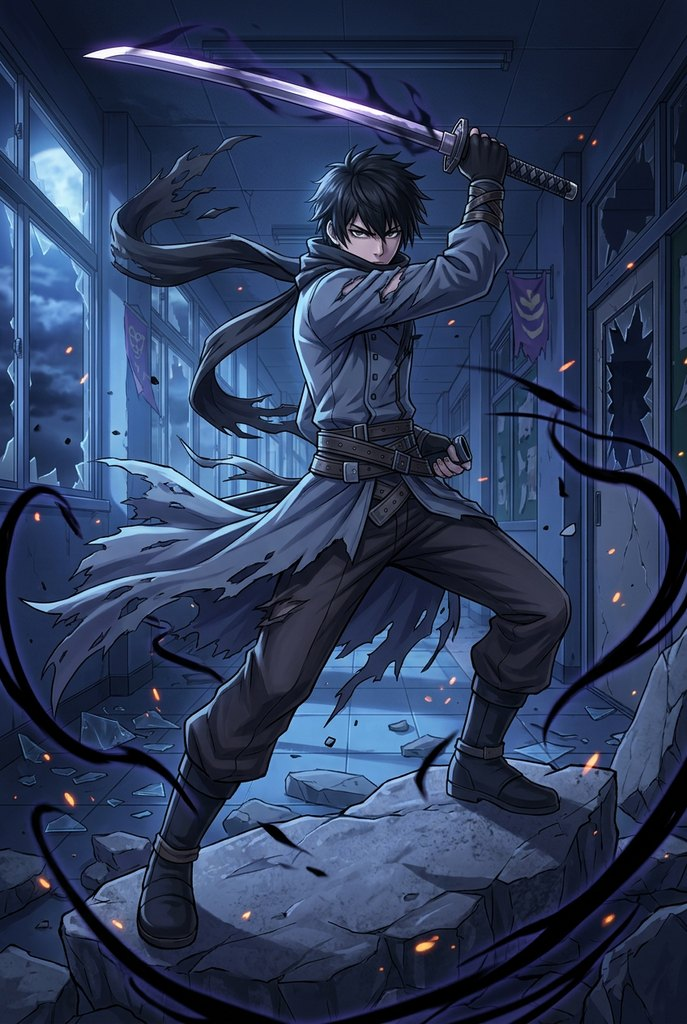
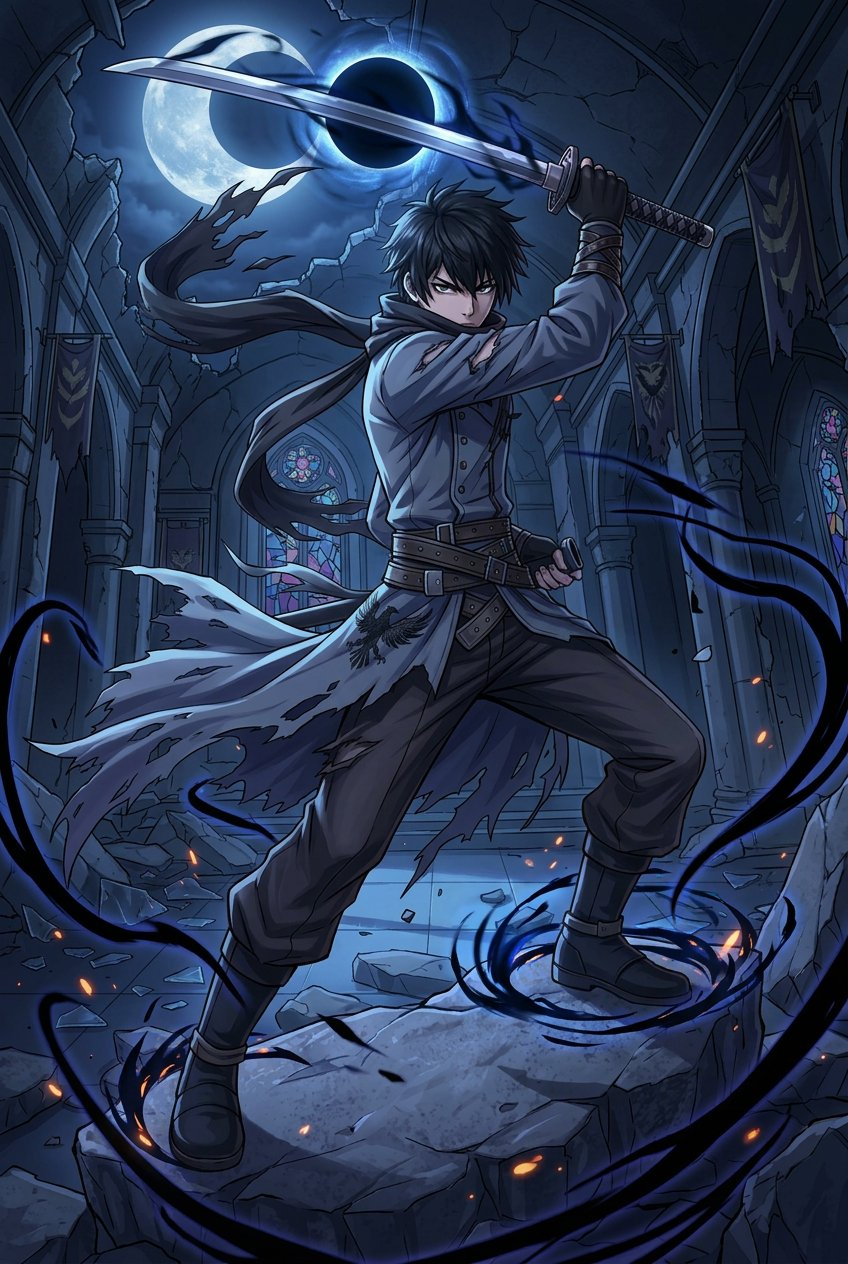
Expand home companion artwork and refresh SSR illustrations

diff --git a/src/app/globals.css b/src/app/globals.css
@@ -263,3 +263,42 @@ img.chibi{object-fit:contain;object-position:50% 100%;image-rendering:pixelated;
 .story-choices>button.picked>.choice-arrow{opacity:0}
 .story-choices>button:disabled:not(.picked){opacity:.42}
 
+
+/* Full-bleed companion stage. Keep this after compact viewport overrides:
+   key art is scenery, not a small sprite above the dialogue box. */
+.home-scene .companion-figure{
+  inset:0 auto 0 0;
+  width:60%;height:100%;
+  z-index:0;filter:none;animation:scene-arrive .6s ease-out both;
+}
+.home-scene .companion-figure>.companion-splash{
+  display:block;width:100%;height:100%;object-fit:cover;
+  object-position:50% 24%;
+  mask-image:linear-gradient(90deg,#000 0%,#000 78%,transparent 100%);
+}
+.home-scene .companion-figure>.chibi{
+  width:100%;height:92%;position:absolute;bottom:0;object-fit:contain;
+}
+.home-scene .companion-figure-glow{display:none}
+.home-scene .companion-tools,
+.home-scene .companion-dialogue,
+.home-scene .featured-wrap,
+.home-scene .home-menu,
+.home-scene .scene-location,
+.home-scene .scene-welcome{z-index:2}
+.home-scene .scene-location,.home-scene .scene-welcome{
+  color:#f2f8ff;text-shadow:0 2px 5px #071c35,0 0 14px #071c35;
+}
+@media(max-width:900px) and (min-width:651px){
+  .home-scene .companion-figure{width:59%}
+}
+@media(max-width:650px){
+  .home-scene .companion-figure{inset:0 0 auto;width:100%;height:430px}
+  .home-scene .companion-figure>.companion-splash{
+    object-position:50% 22%;
+    mask-image:linear-gradient(180deg,#000 0%,#000 78%,transparent 100%);
+  }
+}
+@media(prefers-reduced-motion:reduce){
+  .home-scene .companion-figure{animation:none}
+}
